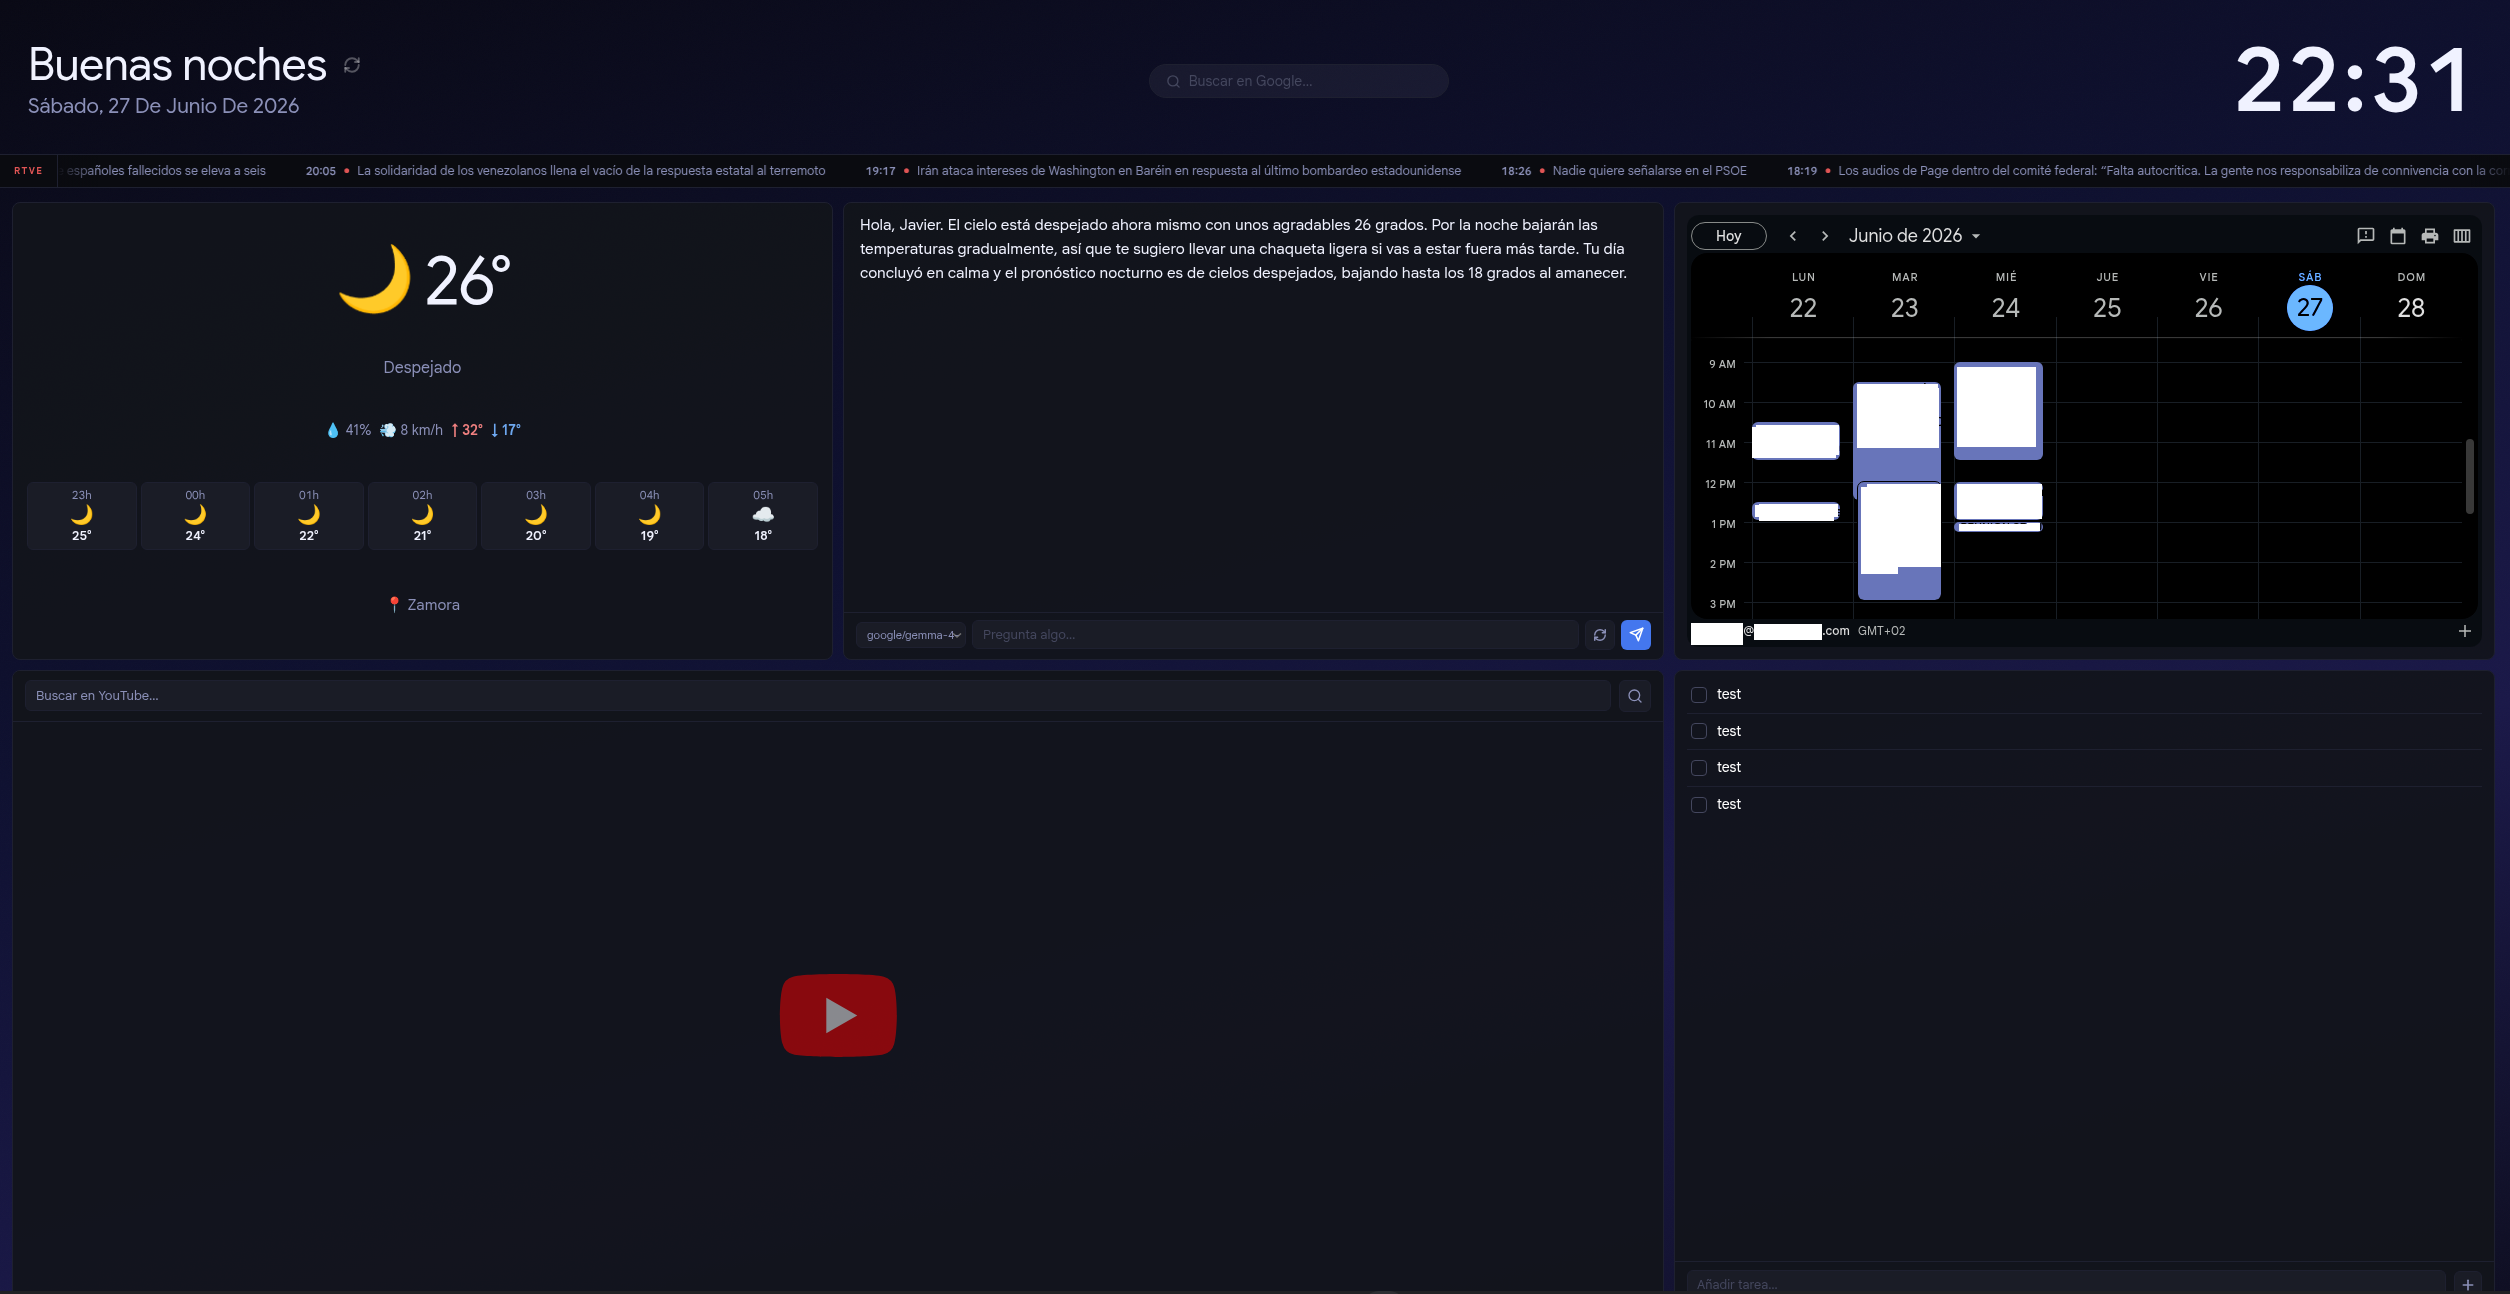
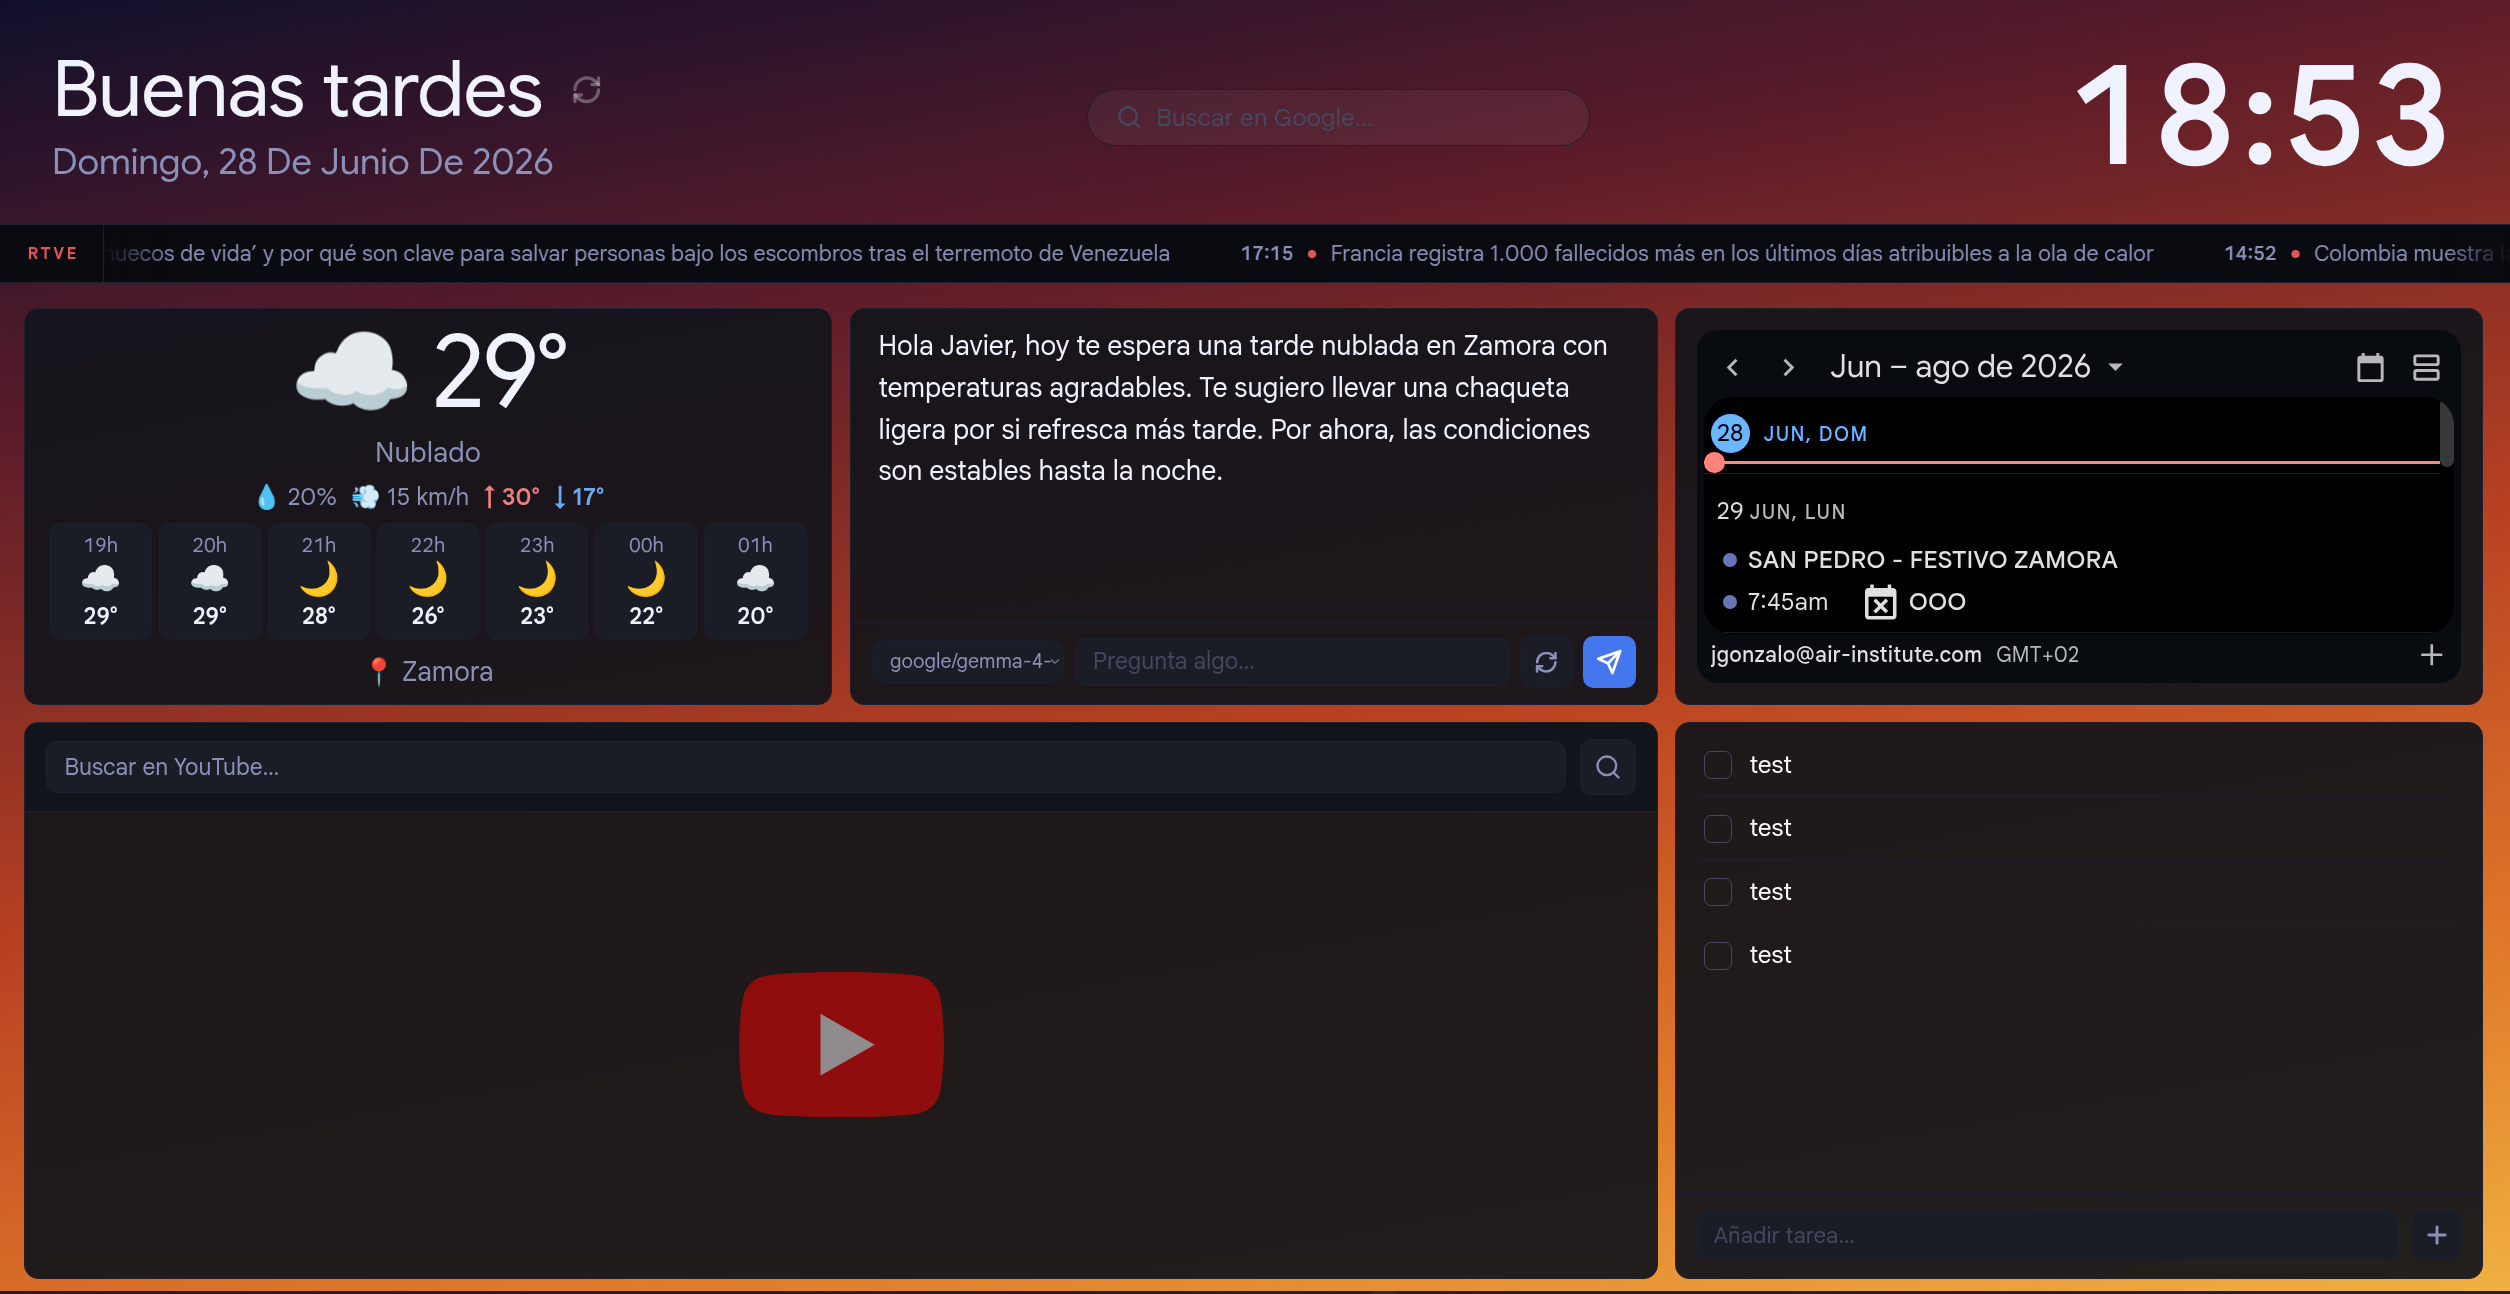
fix: isolate tests from local .env auth config; update screenshot and README

Changed region(s): [[0.0, 0.0, 1.0, 1.0], [0.2797, 0.7419, 0.3729, 0.8655]]

diff --git a/test/server.test.js b/test/server.test.js
@@ -7,6 +7,10 @@ import { join } from 'path';
 // Sandbox the data files to a temp dir before importing server.js
 const tmpRoot = mkdtempSync(join(tmpdir(), 'd4td-test-'));
 process.env.DATA_DIR = tmpRoot;
+// Run without auth so all endpoints are accessible; dotenv won't override
+// an already-set var, so this takes precedence over any local .env file.
+process.env.AUTH_MODE = '';
+process.env.AUTH_ENABLED = 'false';
 
 const { createApp } = await import('../server.js');
 const app = createApp();

diff --git a/test/calendar-embed.test.js b/test/calendar-embed.test.js
@@ -6,6 +6,8 @@ import { join } from 'path';
 
 const tmpRoot = mkdtempSync(join(tmpdir(), 'd4td-calendar-test-'));
 process.env.DATA_DIR = tmpRoot;
+process.env.AUTH_MODE = '';
+process.env.AUTH_ENABLED = 'false';
 
 const { createApp } = await import('../server.js');
 const app = createApp();

diff --git a/README.md b/README.md
@@ -3,6 +3,7 @@
 ![Node.js ≥ 18](https://img.shields.io/badge/node-%E2%89%A518-brightgreen)
 ![License: MIT](https://img.shields.io/badge/license-MIT-blue)
 ![Self-hosted](https://img.shields.io/badge/self--hosted-yes-orange)
+![Status: beta](https://img.shields.io/badge/status-beta-yellow)
 
 ![Screenshot](img/screenshot.png)
 
@@ -310,6 +311,14 @@ If you fork or mirror this repo to a public host, run through this list before p
 4. Rotate any API keys that ever lived on the host:
    `GOOGLE_CLIENT_SECRET`, `YOUTUBE_API_KEY`, `KEYCLOAK_CLIENT_SECRET`,
    `SESSION_SECRET`.
+
+## Contributing
+
+This project is in beta. Bug reports, ideas, and pull requests are welcome.
+
+- Open an issue to report a bug or suggest a feature before writing code
+- Keep PRs focused — one thing per PR
+- Run `npm test && npm run lint` before submitting
 
 ## License
 